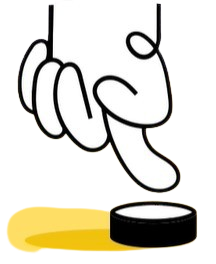
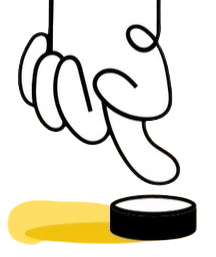
new page save-list

Changed region(s): [[0.0278, 0.0, 0.9167, 0.965], [0.3333, 0.8405, 0.4444, 0.8716], [0.2222, 0.8716, 0.25, 0.9027]]

diff --git a/frontend/src/pages/Home/styles.css b/frontend/src/pages/Home/styles.css
@@ -44,6 +44,10 @@ body::-webkit-scrollbar {
 }
 
 .box.left {
+  display: flex;
+  justify-content: center;
+  align-items: flex-start;
+  position: relative;
   transform: translateY(20px) translateZ(-20px);
   box-shadow: -5px 5px 15px rgba(0, 0, 0, 0.2);
   background-color: #d3aefe;
@@ -58,13 +62,44 @@ body::-webkit-scrollbar {
   transform: translateZ(0);
   box-shadow: 0 10px 20px rgba(0, 0, 0, 0.3);
   background-color: #fede65;
+  margin-bottom: 35px;
+}
+
+.box.right {
+  transform: translateY(20px) translateZ(-20px);
+  box-shadow: 5px 5px 15px rgba(0, 0, 0, 0.2);
+  background-color: #fff;
 }
 
 .img-novalista {
   position: absolute;
-  bottom: 25%;
-  width: 55%;
+  bottom: 23.8%;
+  width: 75%;
   height: 100%;
+}
+
+.img-lista {
+  display: flex;
+  position: absolute;
+  top: 14%;
+  width: 100%;
+  height: 100%;
+}
+
+.btn-lista {
+  margin-top: 20px;
+  padding: 10px;
+  width: 80%;
+  border-radius: 5px;
+  cursor: pointer;
+  background-color: #fff;
+  font-family: 'BriceBold', sans-serif;
+  font-size: 25px;
+  z-index: 1;
+}
+
+.btn-lista:hover {
+  background-color: #e9dede;
 }
 
 .btn-novalista {
@@ -80,12 +115,6 @@ body::-webkit-scrollbar {
 
 .btn-novalista:hover {
   background-color: #e9dede;
-}
-
-.box.right {
-  transform: translateY(20px) translateZ(-20px);
-  box-shadow: 5px 5px 15px rgba(0, 0, 0, 0.2);
-  background-color: #fff;
 }
 
 @media screen and (max-width: 890px) {

diff --git a/frontend/src/pages/Home/index.tsx b/frontend/src/pages/Home/index.tsx
@@ -6,6 +6,7 @@ import Footer from "../../components/Footer";
 
 
 import ImagenMiddle from "../../assets/click2.png";
+import ImagenLeft from "../../assets/image_processin2.png";
 
 function Home() {
     const navigate = useNavigate();
@@ -13,11 +14,17 @@ function Home() {
         <>
             <Header />
             <div className='Container'>
-                <div className='box left'></div>
+
+                <div className='box left'>
+                    <button className='btn-lista' onClick={() => navigate("/Listas-Salvas")}>Listas Salvas</button>
+                    <img className="img-lista" src={ImagenLeft} alt="" />
+                </div>
+
                 <div className='box middle'>
                     <img className="img-novalista" src={ImagenMiddle} alt="" />
-                    <button className='btn-novalista'onClick={() => navigate("/Nova-Lista")}>Nova Lista</button>
+                    <button className='btn-novalista' onClick={() => navigate("/Nova-Lista")}>Nova Lista</button>
                 </div>
+
                 <div className='box right'></div>
             </div>
             <Footer />

diff --git a/frontend/src/routes/AllRoutes.tsx b/frontend/src/routes/AllRoutes.tsx
@@ -3,6 +3,7 @@ import { BrowserRouter, Route, Routes } from "react-router-dom";
 import Teste from "../pages/Teste/index";
 import Home from "../pages/Home/index";
 import CreateList from "../pages/Create-List/index";
+import SaveList from "../pages/Save-List/index";
 
 export const AllRoutes = () => {
     return (
@@ -11,6 +12,7 @@ export const AllRoutes = () => {
                 <Route path="/" element={<Home />} />
                 <Route path="/Teste" element={<Teste />} />
                 <Route path="/Nova-Lista" element={<CreateList />} />
+                <Route path="/Listas-Salvas" element={<SaveList />} />
             </Routes>
         </BrowserRouter>
     );

diff --git a/frontend/src/pages/Save-List/index.tsx b/frontend/src/pages/Save-List/index.tsx
@@ -1,0 +1,18 @@
+import "./styles.css";
+
+import Header from "../../components/Header";
+import Footer from "../../components/Footer";
+
+const SaveList = () => {
+    return (
+        <>
+            <Header />
+            <div className="savelist">
+              
+                <h1>lista</h1>
+            </div>
+            <Footer />
+        </>
+    );
+};
+export default SaveList;

diff --git a/frontend/src/pages/Save-List/styles.css b/frontend/src/pages/Save-List/styles.css
@@ -1,0 +1,5 @@
+.savelist {
+  display: flex;
+  justify-content: center;
+  height: 100vh;
+}
